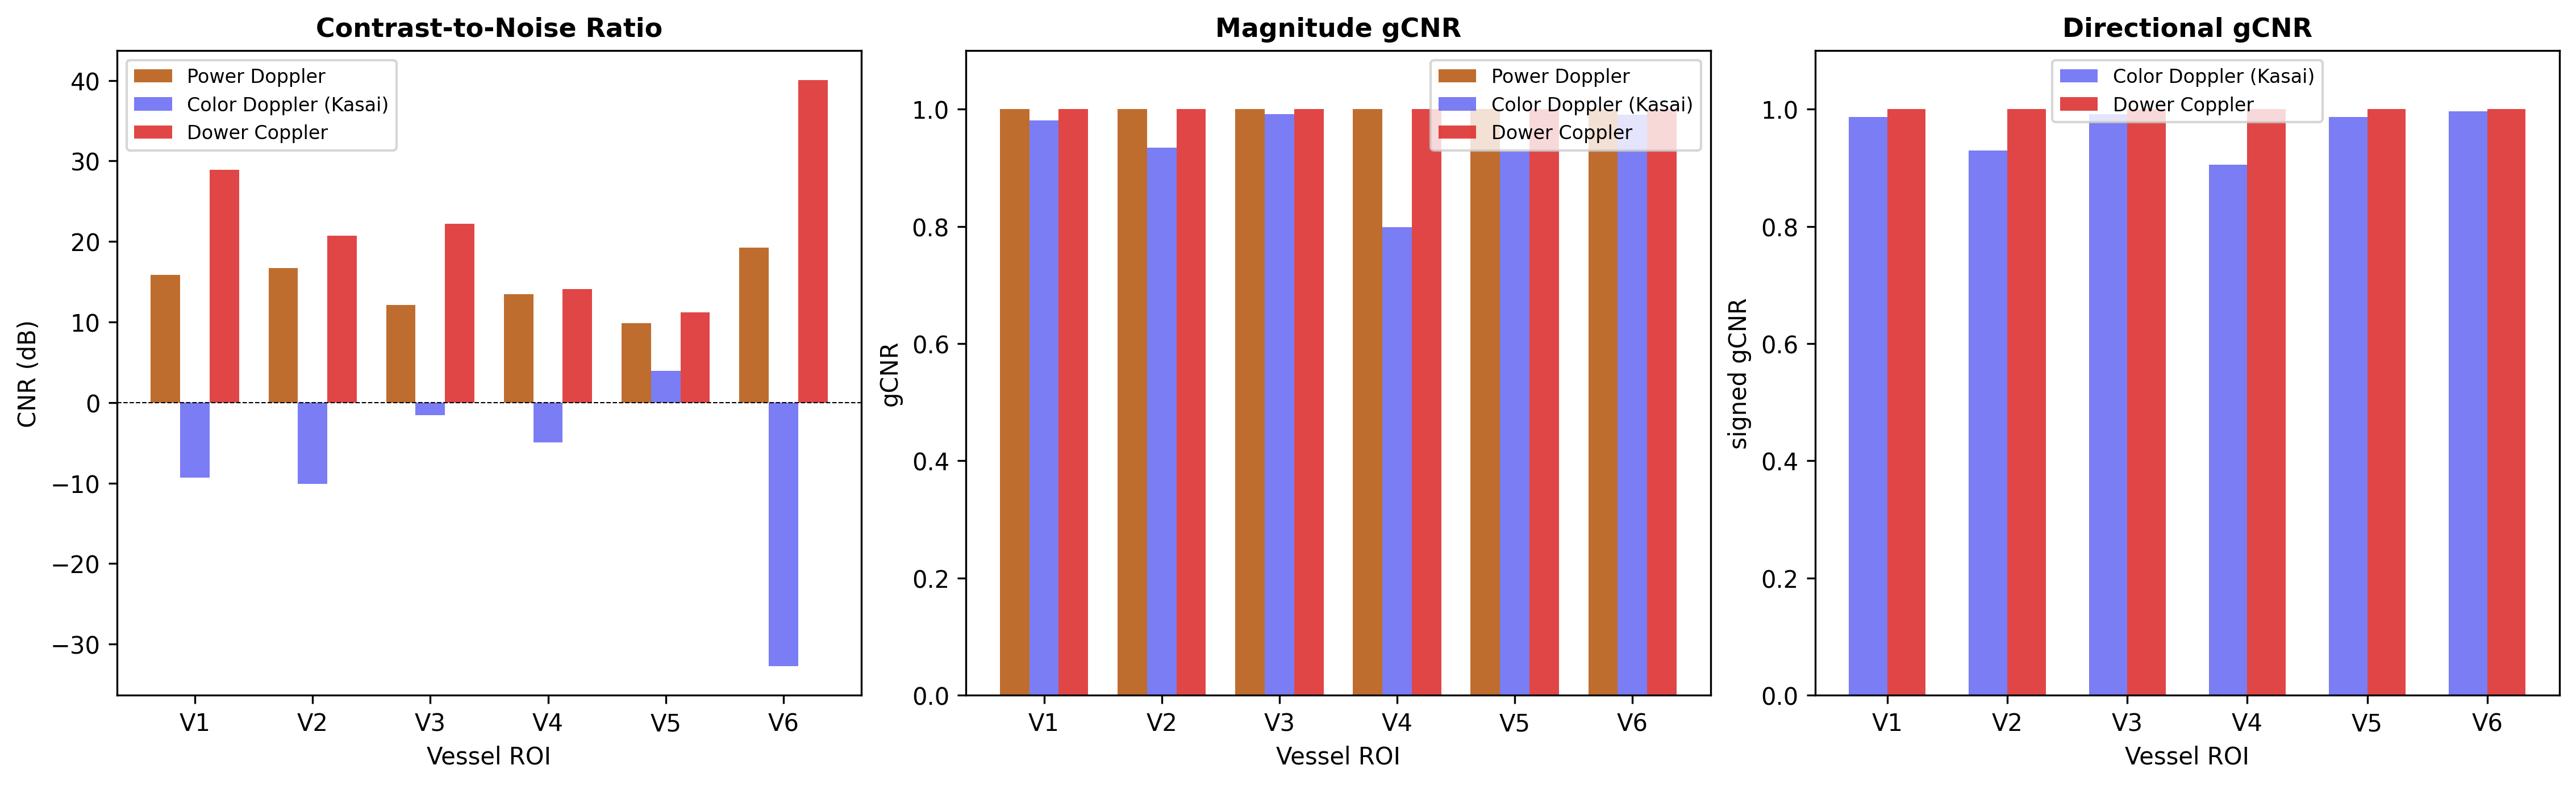
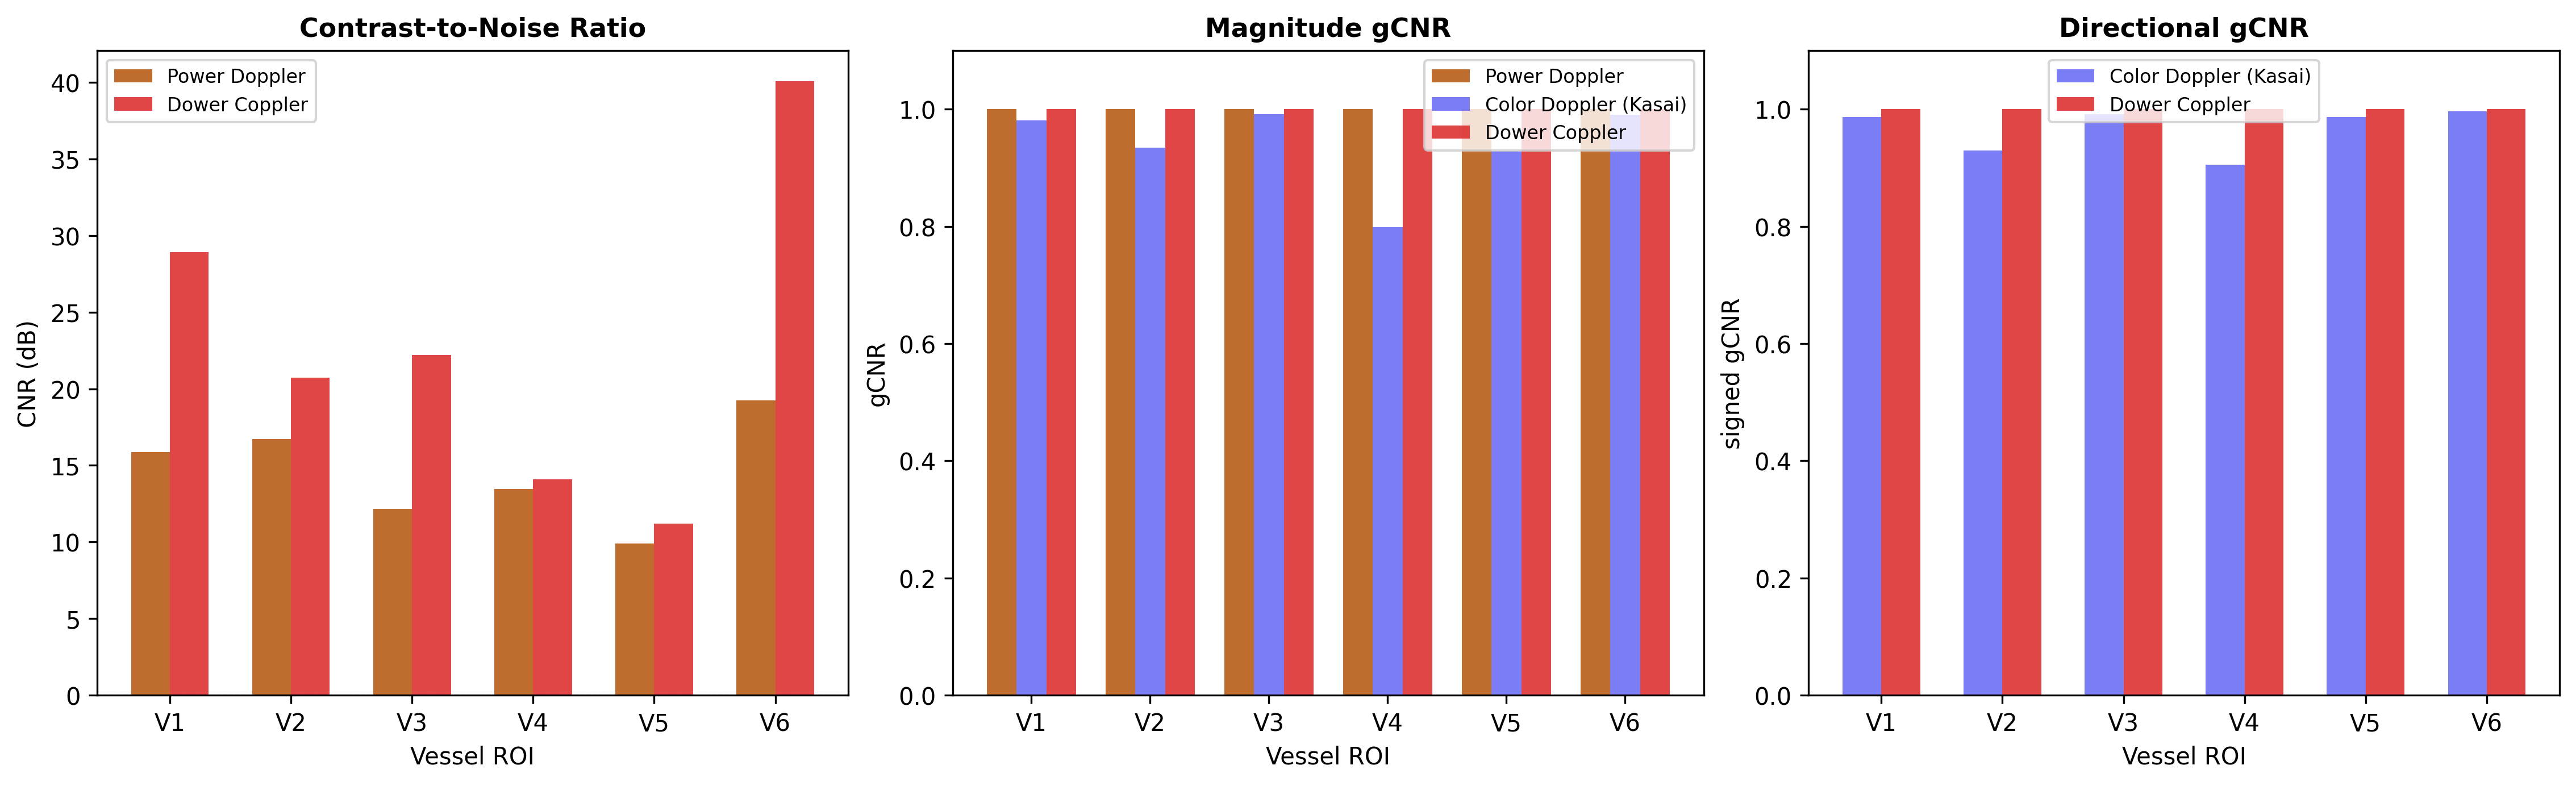
Adjust velocity and CNR figure layouts

diff --git a/scripts/generate_paper_figures.py b/scripts/generate_paper_figures.py
@@ -539,9 +539,9 @@ def figure_cnr_comparison(
 
     fig, (ax1, ax2, ax3) = plt.subplots(1, 3, figsize=(15, 4.5), constrained_layout=True)
 
-    ax1.bar(x - bar_w, cnr_pd, bar_w, label="Power Doppler", color="#B45309", alpha=0.85)
-    ax1.bar(x, cnr_cd, bar_w, label="Color Doppler (Kasai)", color="#6366F1", alpha=0.85)
-    ax1.bar(x + bar_w, cnr_dc, bar_w, label="Dower Coppler", color="#DC2626", alpha=0.85)
+    cnr_bar_w = 0.32
+    ax1.bar(x - cnr_bar_w / 2, cnr_pd, cnr_bar_w, label="Power Doppler", color="#B45309", alpha=0.85)
+    ax1.bar(x + cnr_bar_w / 2, cnr_dc, cnr_bar_w, label="Dower Coppler", color="#DC2626", alpha=0.85)
     ax1.set_xlabel("Vessel ROI", fontsize=10)
     ax1.set_ylabel("CNR (dB)", fontsize=10)
     ax1.set_title("Contrast-to-Noise Ratio", fontsize=11, fontweight="bold")
@@ -701,37 +701,39 @@ def figure_velocity_vs_color(data: dict, output_dir: Path, plane: int = 0):
     loa_low = bias - 1.96 * sd
     loa_high = bias + 1.96 * sd
 
-    fig = plt.figure(figsize=(14, 4.2), constrained_layout=True)
-    gs = gridspec.GridSpec(1, 3, figure=fig, width_ratios=[1.0, 1.0, 1.25])
-    axes = [fig.add_subplot(gs[0, i]) for i in range(3)]
+    fig = plt.figure(figsize=(10.5, 7.0), constrained_layout=True)
+    gs = gridspec.GridSpec(2, 2, figure=fig, width_ratios=[1.0, 1.35])
+    ax_color = fig.add_subplot(gs[0, 0])
+    ax_phase = fig.add_subplot(gs[1, 0])
+    ax_ba = fig.add_subplot(gs[:, 1])
 
     imshow_kw = dict(origin="lower", aspect="equal", extent=extent, cmap="seismic", vmin=-lim, vmax=lim)
-    im0 = axes[0].imshow(color_mm_s, **imshow_kw)
-    axes[0].set_title("Kasai color Doppler", fontsize=11, fontweight="bold")
-    axes[1].imshow(phase_mm_s, **imshow_kw)
-    axes[1].set_title("Multi-lag phase velocity", fontsize=11, fontweight="bold")
-    for ax in axes[:2]:
+    im0 = ax_color.imshow(color_mm_s, **imshow_kw)
+    ax_color.set_title("Kasai color Doppler", fontsize=11, fontweight="bold")
+    ax_phase.imshow(phase_mm_s, **imshow_kw)
+    ax_phase.set_title("Multi-lag phase velocity", fontsize=11, fontweight="bold")
+    for ax in (ax_color, ax_phase):
         ax.set_xlabel("Lateral (cm)", fontsize=9)
         ax.set_ylabel("Depth (cm)", fontsize=9)
         ax.tick_params(labelsize=8)
-    cbar = fig.colorbar(im0, ax=axes[:2], shrink=0.85, pad=0.02)
+    cbar = fig.colorbar(im0, ax=[ax_color, ax_phase], shrink=0.9, pad=0.02)
     cbar.set_label("Velocity (mm/s)", fontsize=9)
 
-    axes[2].scatter(mean, diff, s=3, alpha=0.18, color="#2563eb", edgecolors="none")
-    axes[2].axhline(bias, color="#d97706", linestyle="--", linewidth=1.2, label=f"bias {bias:.2f}")
-    axes[2].axhline(loa_low, color="#dc2626", linestyle="--", linewidth=1.0, label="-1.96 SD")
-    axes[2].axhline(loa_high, color="#dc2626", linestyle="--", linewidth=1.0, label="+1.96 SD")
-    axes[2].set_title("Bland-Altman", fontsize=11, fontweight="bold")
-    axes[2].set_xlabel("Mean velocity (mm/s)", fontsize=9)
-    axes[2].set_ylabel("Multi-lag - Kasai (mm/s)", fontsize=9)
-    axes[2].tick_params(labelsize=8)
-    axes[2].grid(True, alpha=0.25, linewidth=0.5)
-    axes[2].legend(fontsize=7, loc="upper right", frameon=False)
-    axes[2].text(
+    ax_ba.scatter(mean, diff, s=3, alpha=0.18, color="#2563eb", edgecolors="none")
+    ax_ba.axhline(bias, color="#d97706", linestyle="--", linewidth=1.2, label=f"bias {bias:.2f}")
+    ax_ba.axhline(loa_low, color="#dc2626", linestyle="--", linewidth=1.0, label="-1.96 SD")
+    ax_ba.axhline(loa_high, color="#dc2626", linestyle="--", linewidth=1.0, label="+1.96 SD")
+    ax_ba.set_title("Bland-Altman", fontsize=11, fontweight="bold")
+    ax_ba.set_xlabel("Mean velocity (mm/s)", fontsize=9)
+    ax_ba.set_ylabel("Multi-lag - Kasai (mm/s)", fontsize=9)
+    ax_ba.tick_params(labelsize=8)
+    ax_ba.grid(True, alpha=0.25, linewidth=0.5)
+    ax_ba.legend(fontsize=7, loc="upper right", frameon=False)
+    ax_ba.text(
         0.03,
         0.03,
         f"n={mean.size:,}\nSD={sd:.2f} mm/s\nLoA [{loa_low:.1f}, {loa_high:.1f}]",
-        transform=axes[2].transAxes,
+        transform=ax_ba.transAxes,
         fontsize=8,
         va="bottom",
         bbox=dict(facecolor="white", edgecolor="none", alpha=0.75, pad=2),

diff --git a/paper.tex b/paper.tex
@@ -589,10 +589,11 @@ phase-slope fit disagree.
   \includegraphics[width=\textwidth]{fig_velocity_vs_color_bland_altman.png}
   \caption{Comparison of conventional lag-1 Kasai color Doppler and
     the multi-lag phase-velocity estimate used by Dower Coppler.
-    \textbf{Left}: Kasai velocity, computed from $\angle R_1$.
-    \textbf{Center}: multi-lag phase velocity $v_\phi$ from the
-    weighted phase-slope fit.  Both velocity maps are shown in
-    mm/s with the same symmetric color scale.  \textbf{Right}:
+    \textbf{Top left}: Kasai velocity, computed from $\angle R_1$.
+    \textbf{Bottom left}: multi-lag phase velocity $v_\phi$ from the
+    weighted phase-slope fit.  The two velocity maps are stacked
+    vertically and shown in mm/s with the same symmetric color scale.
+    \textbf{Right}:
     Bland--Altman plot comparing the two velocity estimates over all
     finite pixels in the displayed plane.}
   \label{fig:velocity_vs_color}
@@ -622,8 +623,7 @@ and Doppler image.
   \includegraphics[width=\textwidth]{fig_cnr_comparison.png}
   \caption{\textbf{Left}: CNR in dB across six vessel ROIs.  Dower
     Coppler has median CNR 21.5~dB across the six selections
-    (range 11.2--40.1~dB), exceeding both power Doppler and Kasai
-    color Doppler in all ROIs.
+    (range 11.2--40.1~dB), exceeding power Doppler in all ROIs.
     \textbf{Middle}: magnitude generalized CNR
     (1~$-$~histogram overlap) using power Doppler, $|$color
     Doppler$|$, and $|$Dower Coppler$|$.